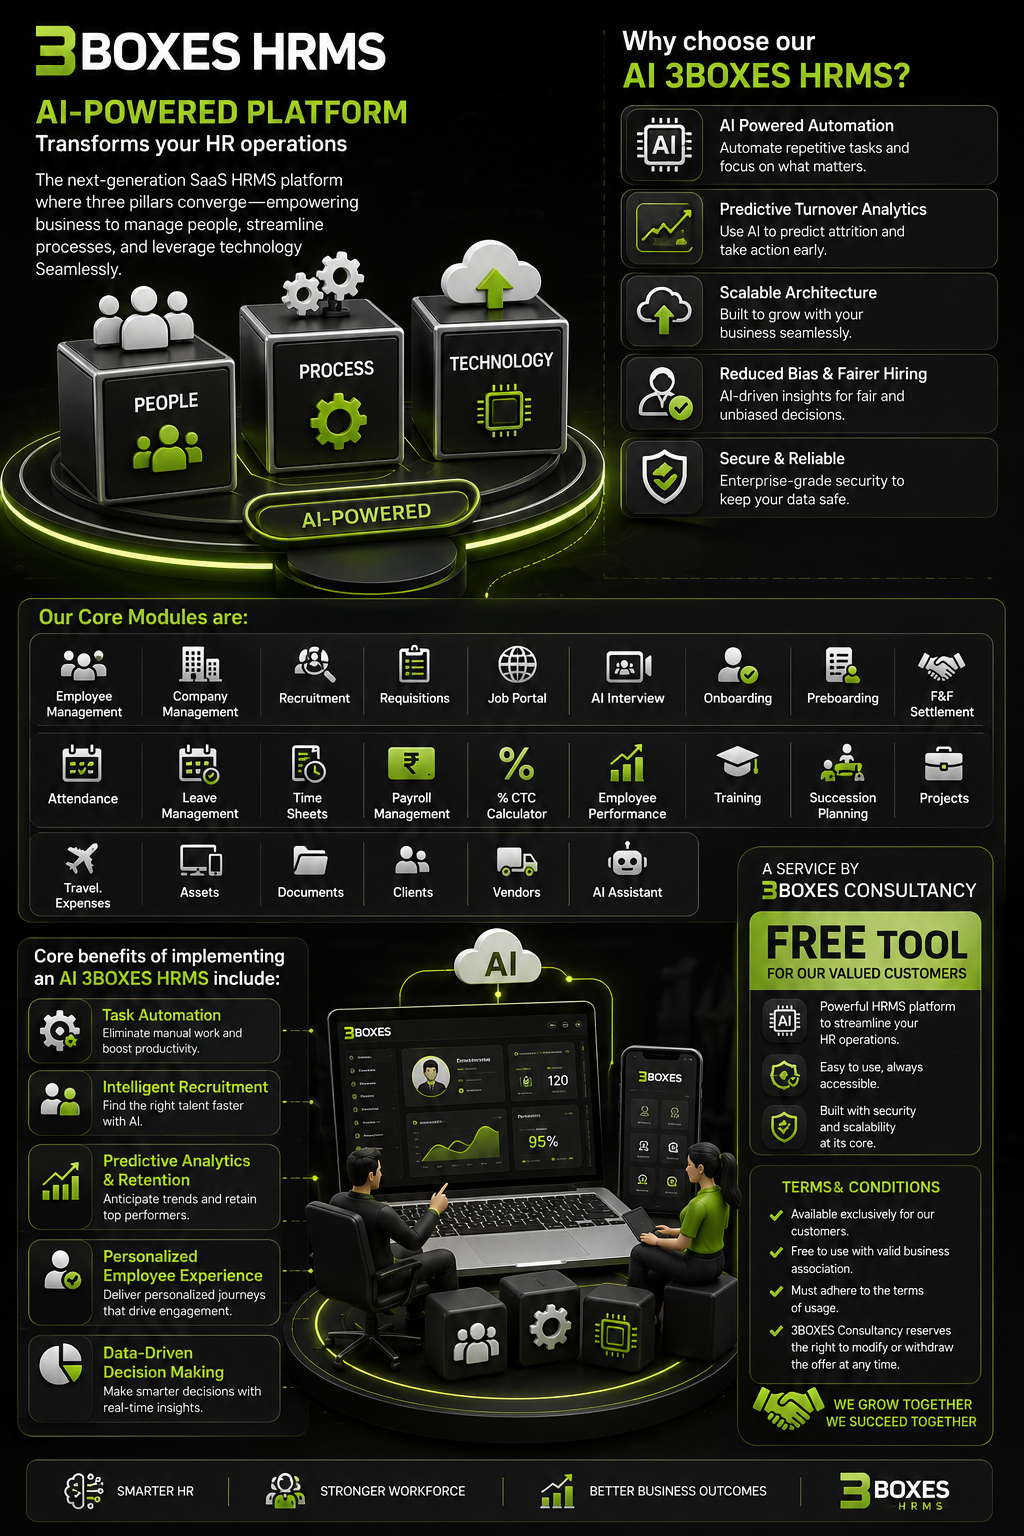
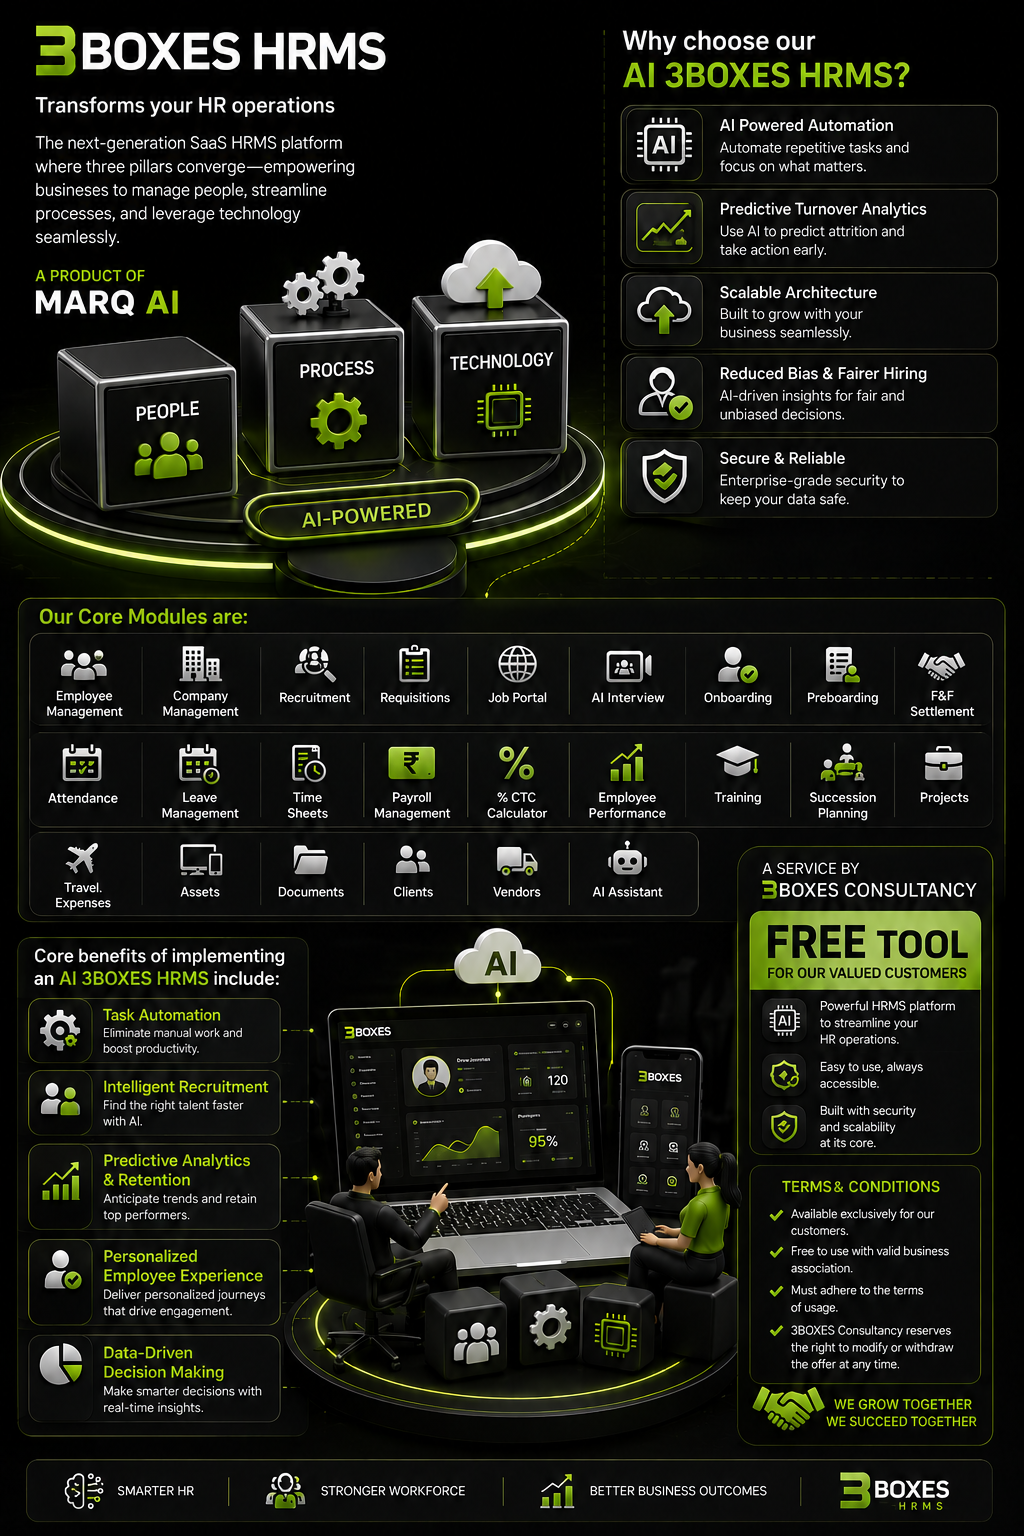
updated a new page Partner.html and changed the 3Boxes Hrmsimage

diff --git a/public/Client.html b/public/Client.html
@@ -207,6 +207,7 @@
                               <li class="has-dropdown"><a href="Client.html">Clients <span><i class="fa-solid fa-angle-down d-lg-inline d-none"></i></span></a>
                                 <ul class="sub-menu">
                                   <li><a href="Client.html">Our Clients</a></li>
+                                  <li><a href="partners.html">Our Partners</a></li>
                               <li><a href="testimonial.html">Testimonials</a></li>
                                 </ul>
                               </li>
@@ -342,7 +343,7 @@
                 </div>
             </div> -->
 
-            <div class="col-lg-6 col-md-6">
+            <!-- <div class="col-lg-6 col-md-6">
                 <div class="service-inner-boxarea">
                     <div class="row">
                         <div class="col-lg-6">
@@ -358,7 +359,7 @@
                         <img src="assets/img/all-images/service/marklogo.png" alt="">
                     </div>
                 </div>
-            </div>
+            </div> -->
 
             <div class="col-lg-6 col-md-6">
                 <div class="service-inner-boxarea">

diff --git a/public/contact.html b/public/contact.html
@@ -207,6 +207,7 @@
                               <li class="has-dropdown"><a href="Client.html">Clients <span><i class="fa-solid fa-angle-down d-lg-inline d-none"></i></span></a>
                                 <ul class="sub-menu">
                                   <li><a href="Client.html">Our Clients</a></li>
+                                  <li><a href="partners.html">Our Partners</a></li>
                               <li><a href="testimonial.html">Testimonials</a></li>
                                 </ul>
                               </li>
@@ -481,7 +482,7 @@
 <!--===== TESTIMONIAL AREA ENDS =======-->
 
 <!--===== CTA AREA STARTS =======-->
-<div class="cta1-aection-area">
+<div class="cta1-aection-area sp2">
   <div class="container">
     <div class="row">
       <div class="col-lg-12">

diff --git a/public/3Boxes HRMS.html b/public/3Boxes HRMS.html
@@ -207,6 +207,7 @@
                               <li class="has-dropdown"><a href="Client.html">Clients <span><i class="fa-solid fa-angle-down d-lg-inline d-none"></i></span></a>
                                 <ul class="sub-menu">
                                   <li><a href="Client.html">Our Clients</a></li>
+                                  <li><a href="partners.html">Our Partners</a></li>
                               <li><a href="testimonial.html">Testimonials</a></li>
                                 </ul>
                               </li>

diff --git a/public/404.html b/public/404.html
@@ -207,6 +207,7 @@
                               <li class="has-dropdown"><a href="Client.html">Clients <span><i class="fa-solid fa-angle-down d-lg-inline d-none"></i></span></a>
                                 <ul class="sub-menu">
                                   <li><a href="Client.html">Our Clients</a></li>
+                                  <li><a href="partners.html">Our Partners</a></li>
                               <li><a href="testimonial.html">Testimonials</a></li>
                                 </ul>
                               </li>

diff --git a/public/Brand-Culture Fit.html b/public/Brand-Culture Fit.html
@@ -209,6 +209,7 @@
                               <li class="has-dropdown"><a href="Client.html">Clients <span><i class="fa-solid fa-angle-down d-lg-inline d-none"></i></span></a>
                                 <ul class="sub-menu">
                                   <li><a href="Client.html">Our Clients</a></li>
+                                  <li><a href="partners.html">Our Partners</a></li>
                               <li><a href="testimonial.html">Testimonials</a></li>
                                 </ul>
                               </li>

diff --git a/public/Careers.html b/public/Careers.html
@@ -150,6 +150,7 @@
                               <li class="has-dropdown"><a href="Client.html">Clients <span><i class="fa-solid fa-angle-down d-lg-inline d-none"></i></span></a>
                                 <ul class="sub-menu">
                                   <li><a href="Client.html">Our Clients</a></li>
+                                  <li><a href="partners.html">Our Partners</a></li>
                               <li><a href="testimonial.html">Testimonials</a></li>
                                 </ul>
                               </li>

diff --git a/public/Hiring for Growth Stages.html b/public/Hiring for Growth Stages.html
@@ -209,6 +209,7 @@
                               <li class="has-dropdown"><a href="Client.html">Clients <span><i class="fa-solid fa-angle-down d-lg-inline d-none"></i></span></a>
                                 <ul class="sub-menu">
                                   <li><a href="Client.html">Our Clients</a></li>
+                                  <li><a href="partners.html">Our Partners</a></li>
                               <li><a href="testimonial.html">Testimonials</a></li>
                                 </ul>
                               </li>

diff --git a/public/Leadership Hiring.html b/public/Leadership Hiring.html
@@ -209,6 +209,7 @@
                               <li class="has-dropdown"><a href="Client.html">Clients <span><i class="fa-solid fa-angle-down d-lg-inline d-none"></i></span></a>
                                 <ul class="sub-menu">
                                   <li><a href="Client.html">Our Clients</a></li>
+                                  <li><a href="partners.html">Our Partners</a></li>
                               <li><a href="testimonial.html">Testimonials</a></li>
                                 </ul>
                               </li>

diff --git a/public/Staffing Solutions.html b/public/Staffing Solutions.html
@@ -209,6 +209,7 @@
                               <li class="has-dropdown"><a href="Client.html">Clients <span><i class="fa-solid fa-angle-down d-lg-inline d-none"></i></span></a>
                                 <ul class="sub-menu">
                                   <li><a href="Client.html">Our Clients</a></li>
+                                  <li><a href="partners.html">Our Partners</a></li>
                               <li><a href="testimonial.html">Testimonials</a></li>
                                 </ul>
                               </li>

diff --git a/public/Strategic Consulting.html b/public/Strategic Consulting.html
@@ -209,6 +209,7 @@
                               <li class="has-dropdown"><a href="Client.html">Clients <span><i class="fa-solid fa-angle-down d-lg-inline d-none"></i></span></a>
                                 <ul class="sub-menu">
                                   <li><a href="Client.html">Our Clients</a></li>
+                                  <li><a href="partners.html">Our Partners</a></li>
                               <li><a href="testimonial.html">Testimonials</a></li>
                                 </ul>
                               </li>

diff --git a/public/Why us.html b/public/Why us.html
@@ -209,6 +209,7 @@
                               <li class="has-dropdown"><a href="Client.html">Clients <span><i class="fa-solid fa-angle-down d-lg-inline d-none"></i></span></a>
                                 <ul class="sub-menu">
                                   <li><a href="Client.html">Our Clients</a></li>
+                                  <li><a href="partners.html">Our Partners</a></li>
                               <li><a href="testimonial.html">Testimonials</a></li>
                                 </ul>
                               </li>

diff --git a/public/about.html b/public/about.html
@@ -207,6 +207,7 @@
                               <li class="has-dropdown"><a href="Client.html">Clients <span><i class="fa-solid fa-angle-down d-lg-inline d-none"></i></span></a>
                                 <ul class="sub-menu">
                                   <li><a href="Client.html">Our Clients</a></li>
+                                  <li><a href="partners.html">Our Partners</a></li>
                               <li><a href="testimonial.html">Testimonials</a></li>
                                 </ul>
                               </li>